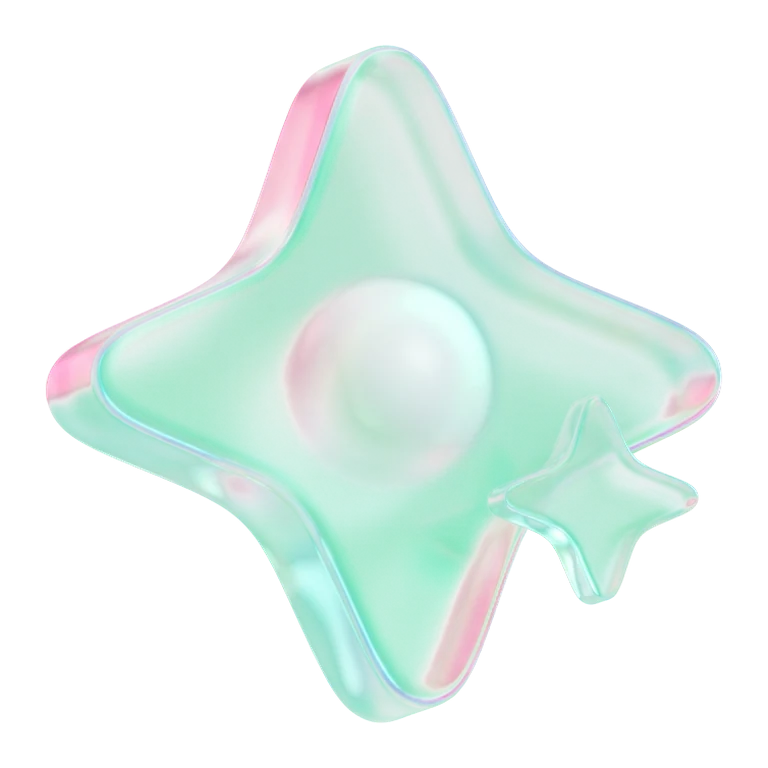
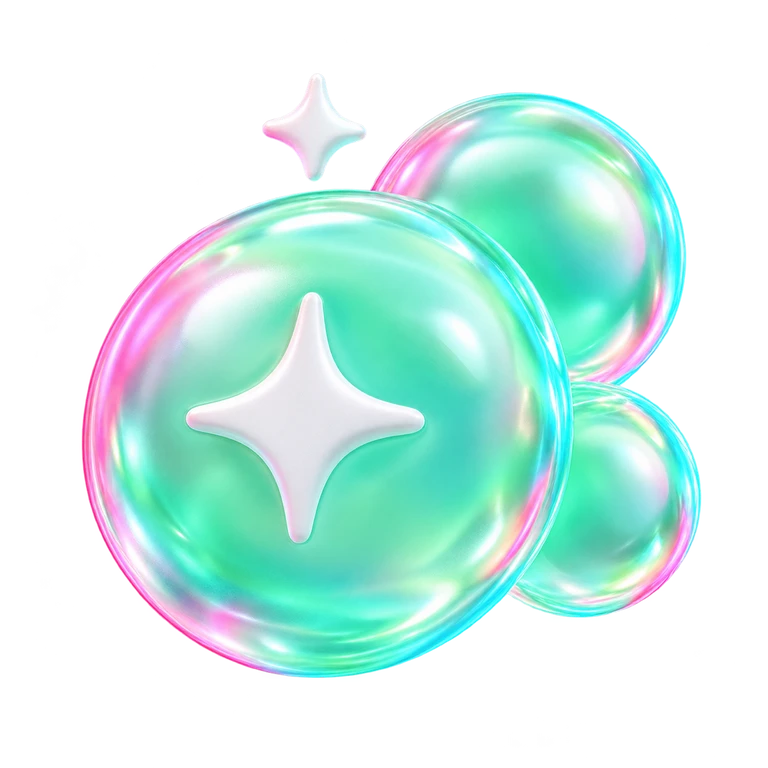
Cleanup: soap bubbles with a sparkle instead of the star with a white ball
The old object had no white inner symbol, which every other glass object has,
only a white ball in its centre. The new one puts a matte white sparkle on
iridescent bubbles. It stands out on the green Cleanup scene and still reads at
64 px. A glossy emerald star was also tried and lost: it merged into the green
background. The rail and menu bar symbol becomes bubbles.and.sparkles (macOS 13+),
so the menu and the scene show the same picture.

diff --git a/App/Nora/Core/Module.swift b/App/Nora/Core/Module.swift
@@ -52,7 +52,7 @@ enum Module: String, CaseIterable, Identifiable, Hashable {
     var symbol: String {
         switch self {
         case .smartCare: "flask"
-        case .cleanup: "sparkle"
+        case .cleanup: "bubbles.and.sparkles"
         case .applications: "trash.square"
         case .performance: "bolt"
         case .spaceMap: "chart.pie"

diff --git a/docs/ru/DESIGN.md b/docs/ru/DESIGN.md
@@ -232,7 +232,7 @@ Nora.app (SwiftUI, macOS 14+)
 ## 6. Дизайн-система
 
 - **Сцены модулей** (неон, Hotline Miami): Умный уход — маджента → фиолет; Очистка — зелёный; Программы — циан → синий; Быстродействие — закат; Анализ диска — ультрафиолет; Состояние — розовый → индиго; Инструменты и История — ночной фиолет; Безопасность — малиновый. Цвета плавно перетекают между разделами. Едва заметные VHS-линии и «горизонт» света за кнопкой.
-- **Стеклянные 3D-объекты** — по одному на модуль, в трёх состояниях («покой / работа / готово»): «сосуд» диска со слоями занятого места и искрами того, что можно убрать; искра очистки; плитка программ; молния быстродействия; 3D-sunburst анализа; тор с неоновой нитью для состояния; стопка папок с `</>` для проектов; коробка инсталляторов; щиты защиты и безопасности; часы со стрелкой назад для истории; ключ и отвёртка инструментов. Каждый объект показывает то же, что SF Symbol модуля в боковой панели и строке меню (`Module.symbol`), поэтому пункт меню и сцена дают один образ. Финальные ассеты созданы генеративной моделью по единому стиль-гайду (матовое цветное стекло, белые символы внутри, розовый и циановый контровый свет), затем фон переводится в альфа-канал. Исходники — `Design/Glass/`.
+- **Стеклянные 3D-объекты** — по одному на модуль, в трёх состояниях («покой / работа / готово»): «сосуд» диска со слоями занятого места и искрами того, что можно убрать; мыльные пузыри с искрой для очистки; плитка программ; молния быстродействия; 3D-sunburst анализа; тор с неоновой нитью для состояния; стопка папок с `</>` для проектов; коробка инсталляторов; щиты защиты и безопасности; часы со стрелкой назад для истории; ключ и отвёртка инструментов. Каждый объект показывает то же, что SF Symbol модуля в боковой панели и строке меню (`Module.symbol`), поэтому пункт меню и сцена дают один образ. Финальные ассеты созданы генеративной моделью по единому стиль-гайду (матовое цветное стекло, белые символы внутри, розовый и циановый контровый свет), затем фон переводится в альфа-канал. Исходники — `Design/Glass/`.
 - **Нативно:** объекты анимируются в SwiftUI (плавание, наклон за курсором, свечение во время работы, «толчок» по завершении), фаза анимации не сбрасывается при перерисовке. Дальше — Inferno (преломление, блеск) и Vortex (частицы); стекло интерфейса — `glassEffect` на macOS 26 с запасным вариантом `Material`.
 - **Иконка приложения:** неоновый сквиркл (маджента → фиолет → циан) со стеклянным «сосудом» диска; исходники — `Design/AppIcon/` (`AppIcon-1024.png`, `Nora.icns`).
 - **Строка меню** (по итогам анализа MangelSP, Burrow и Stats; у Zhili и gokuscraper строки меню нет):

diff --git a/docs/uk/DESIGN.md b/docs/uk/DESIGN.md
@@ -234,7 +234,7 @@ Nora.app (SwiftUI, macOS 14+)
 - **Сцени модулів** (неон, Hotline Miami): Розумний догляд — маджента→фіолет; Очищення — зелений; Програми — ціан→синій; Швидкодія — захід сонця; Аналіз — ультрафіолет; Стан — рожевий→індиго; Інструменти та Історія — нічний фіолет; Безпека — малиновий. Кольори плавно перетікають між розділами. Ледь помітні VHS-лінії й «горизонт» світла за кнопкою.
 - **Скляні 3D-об'єкти** (по одному на модуль, стани «спокій / робота / готово»):
   - диск — «посудина» з шарами зайнятого місця й бурштиновим пилом того, що можна прибрати;
-  - очищення — іскра;
+  - очищення — мильні бульбашки з іскрою;
   - програми — плитка;
   - швидкодія — блискавка;
   - аналіз — 3D-sunburst;

diff --git a/CHANGELOG.md b/CHANGELOG.md
@@ -11,7 +11,7 @@ Changes to the Nora app, newest first. Work that is merged but not released yet 
 - The ClamAV database update shows that it is downloading.
 
 ### Changed
-- Menu and scene icons match: each section's icon in the sidebar and the menu bar draws the same object as its scene. New glass objects for Projects (a clean `</>`), Performance (a bolt instead of a shield), History (a clock with a back arrow) and Tools (a wrench and a screwdriver instead of a gear).
+- Menu and scene icons match: each section's icon in the sidebar and the menu bar draws the same object as its scene. New glass objects for Cleanup (soap bubbles with a sparkle instead of a star with a white ball), Projects (a clean `</>`), Performance (a bolt instead of a shield), History (a clock with a back arrow) and Tools (a wrench and a screwdriver instead of a gear).
 - Homebrew updates run one app at a time, so Stop can wait for the app in progress.
 
 ### Fixed

diff --git a/docs/en/DESIGN.md b/docs/en/DESIGN.md
@@ -234,7 +234,7 @@ Tests: parser tests on fixtures recorded from real runs (CI matrix with `brew in
 - **Module scenes** (neon, Hotline Miami): Smart Care magenta → violet; Cleanup green; Applications cyan → blue; Performance sunset; Space Map ultraviolet; Status pink → indigo; Tools and History night violet; Security crimson. Colours morph between sections. Barely visible VHS lines and a light "horizon" behind the button.
 - **Glass 3D objects**, one per module, in three states (*idle / working / done*):
   - disk: a "vessel" with layers of used space and amber dust showing what can be removed;
-  - cleanup: a sparkle;
+  - cleanup: soap bubbles with a sparkle;
   - applications: a tile;
   - performance: a lightning bolt;
   - space map: a 3D sunburst;
